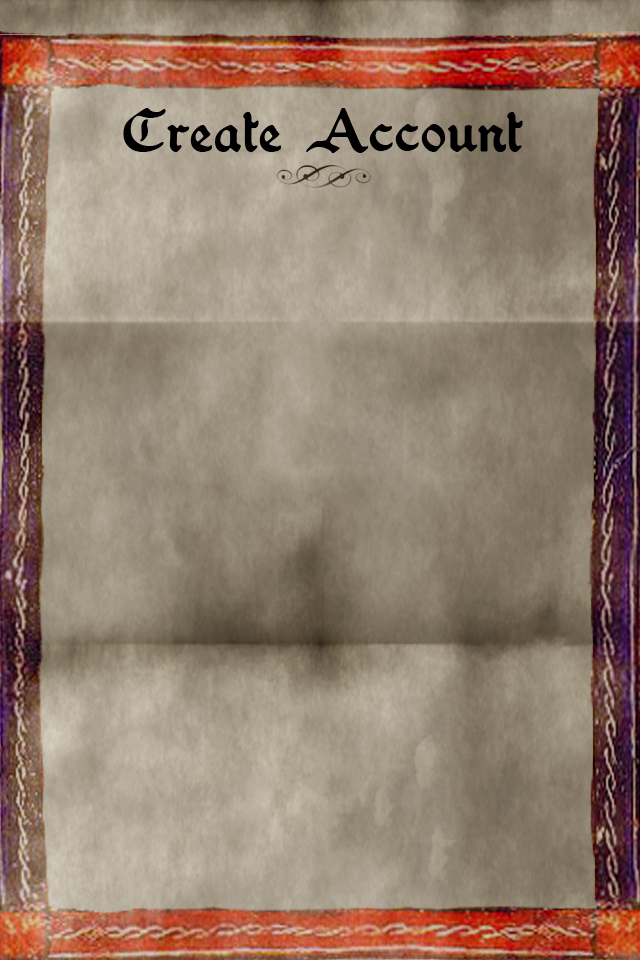
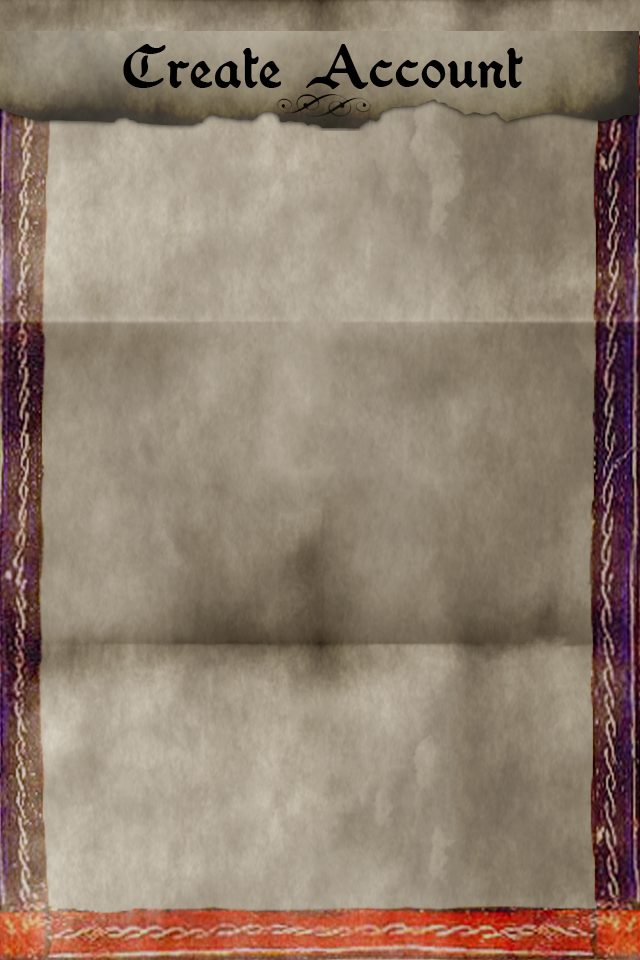
reworked look and feel, fixed bug in shout view navigation started work in configuration view.

Changed region(s): [[0.0, 0.0312, 1.0, 0.1875]]

diff --git a/Classes/Views/Configuration/ConfigurationViewController.m b/Classes/Views/Configuration/ConfigurationViewController.m
@@ -1,5 +1,5 @@
 //
-//  EditAccountViewController.m
+//  ConfigurationViewController.m
 //  webgnosus
 //
 //  Created by Troy Stribling on 2/6/09.
@@ -7,7 +7,7 @@
 //
 
 //-----------------------------------------------------------------------------------------------------------------------------------
-#import "EditAccountViewController.h"
+#import "ConfigurationViewController.h"
 #import "UICustomSwitch.h"
 #import "AccountModel.h"
 #import "ServiceItemModel.h"
@@ -22,14 +22,14 @@
 #import "XMPPPubSub.h"
 
 /////////////////////////////////////////////////////////////////////////////////////////////////////////////////////////////////////
-@interface EditAccountViewController (PrivateAPI)
+@interface ConfigurationViewController (PrivateAPI)
 
 - (void)trackingSwitchChanged:(id)sender;
 
 @end
 
 /////////////////////////////////////////////////////////////////////////////////////////////////////////////////////////////////////
-@implementation EditAccountViewController
+@implementation ConfigurationViewController
 
 //-----------------------------------------------------------------------------------------------------------------------------------
 @synthesize passwordTextField;
@@ -40,11 +40,11 @@
 @synthesize containerView;
 
 //===================================================================================================================================
-#pragma mark EditAccountViewController
+#pragma mark ConfigurationViewController
 
 //-----------------------------------------------------------------------------------------------------------------------------------
 + (id)inView:(UIView*)_containerView {
-    return [[EditAccountViewController alloc] initWithNibName:@"EditAccountViewController" bundle:nil inView:_containerView];
+    return [[ConfigurationViewController alloc] initWithNibName:@"ConfigurationViewController" bundle:nil inView:_containerView];
 }
 
 //-----------------------------------------------------------------------------------------------------------------------------------
@@ -103,7 +103,7 @@
 }
 
 //===================================================================================================================================
-#pragma mark EditAccountViewController PrivateApi
+#pragma mark ConfigurationViewController PrivateApi
 
 //-----------------------------------------------------------------------------------------------------------------------------------
 - (void)trackingSwitchChanged:(id)sender {

diff --git a/Classes/Views/MapView/MapTopLauncherView.m b/Classes/Views/MapView/MapTopLauncherView.m
@@ -23,25 +23,22 @@
 @synthesize inventoryLauncher;
 @synthesize statsLauncher;
 @synthesize levelLabel;
-@synthesize containerView;
 
 //===================================================================================================================================
 #pragma mark MapTopLauncherView
 
 //-----------------------------------------------------------------------------------------------------------------------------------
-+ (id)inView:(UIView*)_view {
-    return [[[MapTopLauncherView alloc] initInView:_view] autorelease];
++ (id)inView:(UIView*)_view andDelegate:(id<LauncherViewDelegate>)_delegate {
+    return [[MapTopLauncherView alloc] initInView:_view andDelegate:_delegate];
 }
 
 //-----------------------------------------------------------------------------------------------------------------------------------
-- (id)initInView:(UIView*)_view {
+- (id)initInView:(UIView*)_view andDelegate:(id<LauncherViewDelegate>)_delegate {
     CGFloat viewWidth =  _view.frame.size.width;
     CGFloat viewHeight = 0.1042*_view.frame.size.height;
     CGRect viewFrame = CGRectMake(0.0, 0.0, viewWidth, viewHeight);
-    if ((self = [self initWithFrame:viewFrame])) {
-        self.containerView = _view;
-        self.image = [UIImage imageNamed:@"map-top-launcher.png"];
-        self.userInteractionEnabled = YES;
+    if ((self = [self initWithFrame:viewFrame image:@"map-top-launcher.png" andDelegate:_delegate])) {
+        self.containedView = _view;
         CGRect inventoryFrame = CGRectMake(0.8281*viewWidth, 0.0, 0.1562*viewWidth, viewHeight);
         self.inventoryLauncher = [TouchAreaView createWithFrame:inventoryFrame name:@"inventory" andDelegate:self];
         [self addSubview:self.inventoryLauncher];
@@ -68,10 +65,7 @@
 
 //-----------------------------------------------------------------------------------------------------------------------------------
 - (void)viewTouched:(TouchAreaView*)touchedView {
-    if ([touchedView.viewName isEqualToString:@"inventory"]) {
-        [[ViewControllerManager instance] showInventoryView:self.containerView];
-    } else if ([touchedView.viewName isEqualToString:@"stats"]) {
-    }
+    [self.delegate viewTouchedNamed:touchedView.viewName];
 }
 
 //===================================================================================================================================

diff --git a/Classes/Views/MapView/MapViewController.m b/Classes/Views/MapView/MapViewController.m
@@ -69,6 +69,17 @@
 #pragma mark MapViewController
 
 //===================================================================================================================================
+#pragma mark LauncherViewDelegate 
+
+//-----------------------------------------------------------------------------------------------------------------------------------
+- (void)viewTouchedNamed:(NSString*)name {
+    if ([name isEqualToString:@"inventory"]) {
+        [[ViewControllerManager instance] showInventoryView:self.mapView];
+    } else if ([name isEqualToString:@"stats"]) {
+    }
+}
+
+//===================================================================================================================================
 #pragma mark NavigationLauncherViewDelegate 
 
 //-----------------------------------------------------------------------------------------------------------------------------------
@@ -103,7 +114,7 @@
     UIImage* userLocationMarkerImage = [UIImage imageNamed:@"user-location-marker.png"];
     self.userMarker = [[RMMarker alloc] initWithUIImage:userLocationMarkerImage anchorPoint:CGPointMake(0.5, 1.0)];
     [NavigationLauncherView inView:self.mapView withImageNamed:@"map-navigation-launcher.png" andDelegate:self];
-    [MapTopLauncherView inView:self.mapView];
+    [MapTopLauncherView inView:self.mapView andDelegate:self];
 }
 
 //-----------------------------------------------------------------------------------------------------------------------------------

diff --git a/Classes/Views/MapView/MapTopLauncherView.h b/Classes/Views/MapView/MapTopLauncherView.h
@@ -8,26 +8,25 @@
 
 //-----------------------------------------------------------------------------------------------------------------------------------
 #import <UIKit/UIKit.h>
+#import "LauncherView.h"
 
 //-----------------------------------------------------------------------------------------------------------------------------------
 @class TouchAreaView;
 
 /////////////////////////////////////////////////////////////////////////////////////////////////////////////////////////////////////
-@interface MapTopLauncherView : UIImageView {
+@interface MapTopLauncherView : LauncherView {
     TouchAreaView* inventoryLauncher;
     TouchAreaView* statsLauncher;
     UILabel* levelLabel;
-    UIView* containerView;
 }
 
 //-----------------------------------------------------------------------------------------------------------------------------------
 @property (nonatomic, retain) TouchAreaView* inventoryLauncher;
 @property (nonatomic, retain) TouchAreaView* statsLauncher;
 @property (nonatomic, retain) UILabel* levelLabel;
-@property (nonatomic, retain) UIView* containerView;
 
 //-----------------------------------------------------------------------------------------------------------------------------------
-+ (id)inView:(UIView*)_view;
-- (id)initInView:(UIView*)_view;
++ (id)inView:(UIView*)_view andDelegate:(id<LauncherViewDelegate>)_delegate;
+- (id)initInView:(UIView*)_view andDelegate:(id<LauncherViewDelegate>)_delegate;
 
 @end

diff --git a/Classes/Views/Inventory/InventoryViewController.m b/Classes/Views/Inventory/InventoryViewController.m
@@ -48,6 +48,10 @@
 
 //-----------------------------------------------------------------------------------------------------------------------------------
 - (void)viewTouchedNamed:(NSString*)name {
+    if ([name isEqualToString:@"store"]) {
+    } else if ([name isEqualToString:@"back"]) {
+        [self.view removeFromSuperview];
+    } 
 }
 
 //===================================================================================================================================
@@ -61,6 +65,7 @@
 //-----------------------------------------------------------------------------------------------------------------------------------
 - (void)touchedNotifications {
     [self.view removeFromSuperview];
+    [[ViewControllerManager instance] showNotificationsView:self.containerView];
 }            
 
 //-----------------------------------------------------------------------------------------------------------------------------------

diff --git a/Classes/Views/MapView/MapViewController.h b/Classes/Views/MapView/MapViewController.h
@@ -9,6 +9,7 @@
 //-----------------------------------------------------------------------------------------------------------------------------------
 #import <UIKit/UIKit.h>
 #import "NavigationLauncherView.h"
+#import "LauncherView.h"
 
 //-----------------------------------------------------------------------------------------------------------------------------------
 @class RMMapView;
@@ -17,7 +18,7 @@
 @class OverlayRMMapView;
 
 /////////////////////////////////////////////////////////////////////////////////////////////////////////////////////////////////////
-@interface MapViewController : UIViewController <NavigationLauncherViewDelegate> {
+@interface MapViewController : UIViewController <NavigationLauncherViewDelegate, LauncherViewDelegate> {
 	IBOutlet OverlayRMMapView* mapView;
     MapGeoLocUpdateDelegate* mapGeoLocUpdateDelegate;
     RMMarker* userMarker;

diff --git a/Classes/Views/Configuration/ConfigurationViewController.h b/Classes/Views/Configuration/ConfigurationViewController.h
@@ -1,5 +1,5 @@
 //
-//  EditAccountViewController.h
+//  ConfigurationViewController.h
 //  webgnosus
 //
 //  Created by Troy Stribling on 2/6/09.
@@ -15,7 +15,7 @@
 @class SegmentedListPicker;
 
 /////////////////////////////////////////////////////////////////////////////////////////////////////////////////////////////////////
-@interface EditAccountViewController : UIViewController <UITextFieldDelegate, NavigationLauncherViewDelegate> {
+@interface ConfigurationViewController : UIViewController <UITextFieldDelegate, NavigationLauncherViewDelegate, LauncherViewDelegate> {
 	IBOutlet UITextField* passwordTextField;
  	IBOutlet UITextField* confirmPasswordTextField;
     IBOutlet UIButton* doneButton;

diff --git a/Classes/Views/Inventory/InventoryTopLauncherView.m b/Classes/Views/Inventory/InventoryTopLauncherView.m
@@ -57,12 +57,7 @@
 
 //-----------------------------------------------------------------------------------------------------------------------------------
 - (void)viewTouched:(TouchAreaView*)touchedView {
-    if ([touchedView.viewName isEqualToString:@"store"]) {
-    } else if ([touchedView.viewName isEqualToString:@"back"]) {
-        [[ViewControllerManager instance] removeInventoryView];
-    } else {
-        [self.delegate viewTouchedNamed:touchedView.viewName];
-    }
+    [self.delegate viewTouchedNamed:touchedView.viewName];
 }
 
 //===================================================================================================================================

diff --git a/Classes/Views/Messaging/ShoutsViewController.m b/Classes/Views/Messaging/ShoutsViewController.m
@@ -115,7 +115,6 @@
 //-----------------------------------------------------------------------------------------------------------------------------------
 - (void)touchedLocation {
     [self.view removeFromSuperview];
-    [[ViewControllerManager instance] removeContactsView];
 }
 
 //===================================================================================================================================
